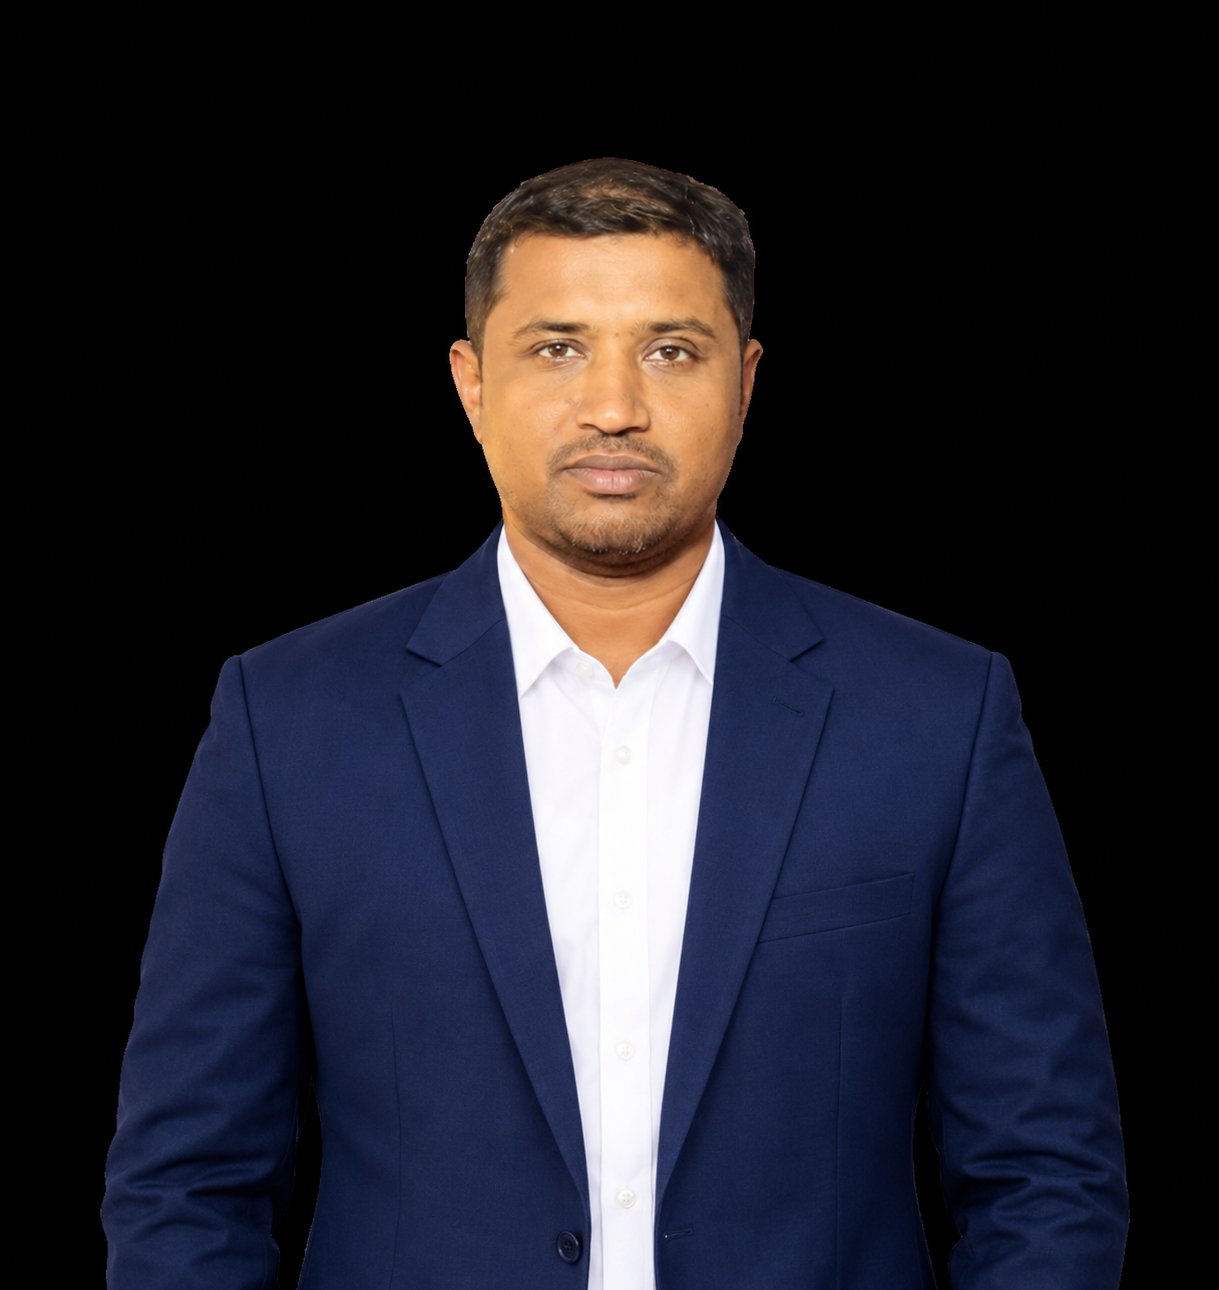
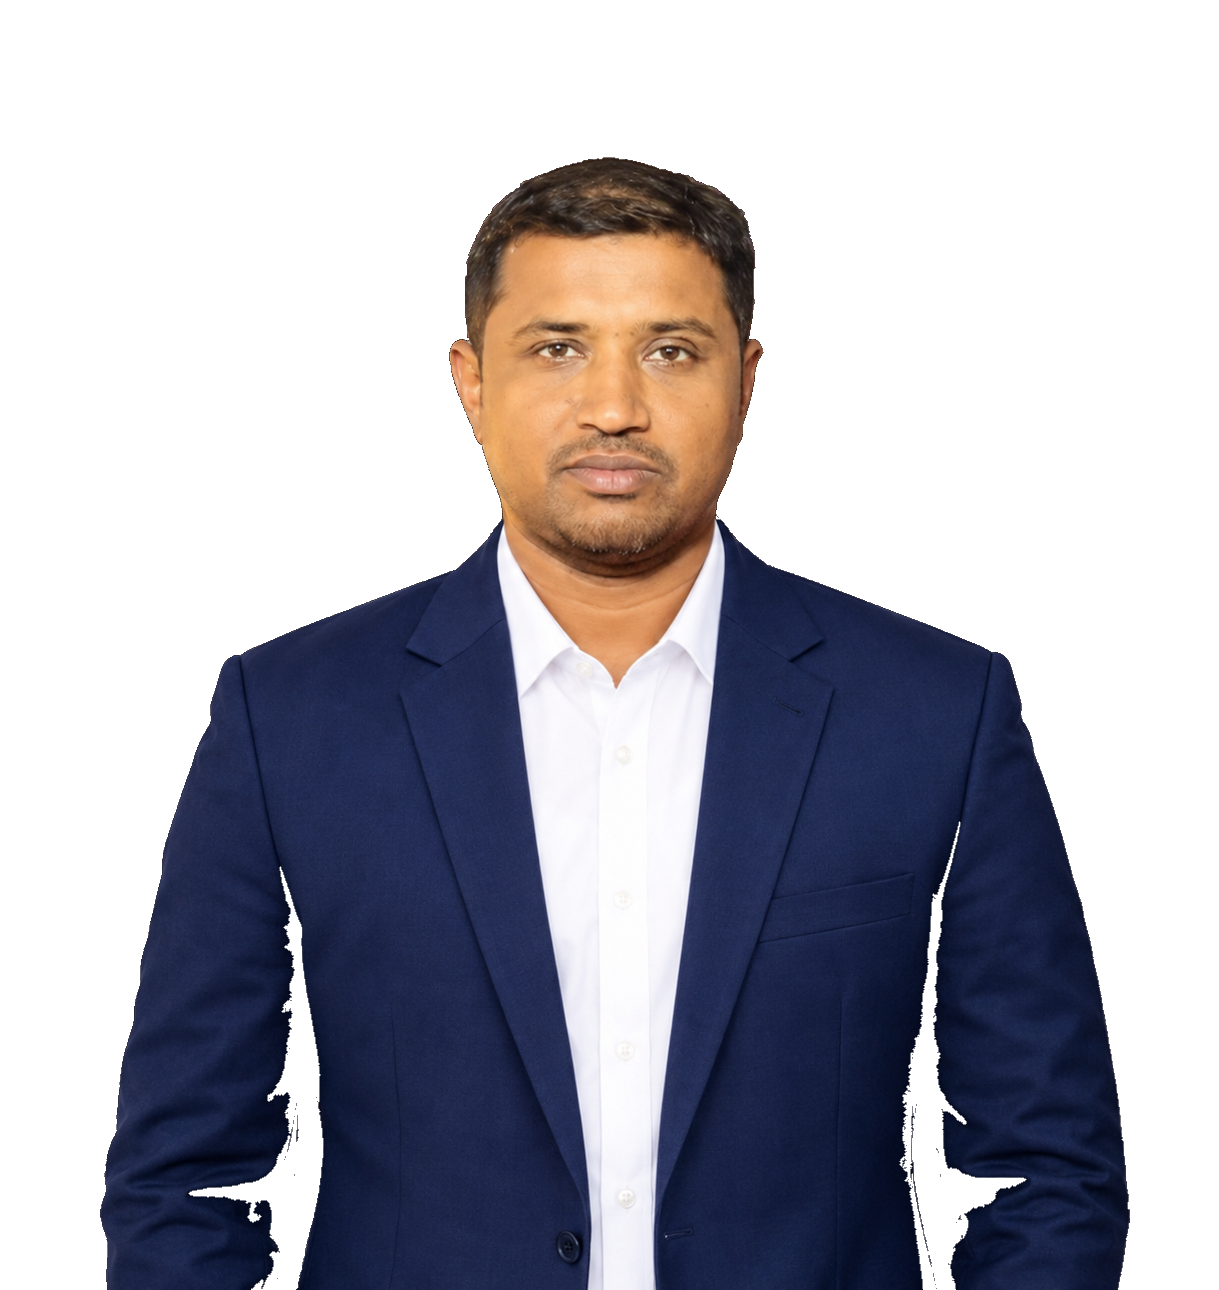
fix: bg made transpartet

diff --git a/src/components/home/PioneersSection.tsx b/src/components/home/PioneersSection.tsx
@@ -115,7 +115,7 @@ export default function PioneersSection({ locale }: { locale: Locale }) {
             <div className="relative shrink-0">
               <div
                 className="relative w-40 h-40 sm:w-48 sm:h-48 rounded-2xl overflow-hidden ring-4 ring-[#006a4e]/20 group-hover:ring-[#006a4e] group-hover:scale-105 transition-all duration-500 shadow-md pioneer-photo-frame"
-                style={{ backgroundColor: "var(--pioneer-photo-bg, #000000)" }}
+                style={{ backgroundColor: "var(--pioneer-photo-bg, #ffffff)" }}
               >
                 <Image
                   src={topLeader.image}
@@ -178,7 +178,7 @@ export default function PioneersSection({ locale }: { locale: Locale }) {
                 {/* Photo */}
                 <div
                   className="relative w-36 h-36 sm:w-40 sm:h-40 rounded-2xl overflow-hidden mb-4 ring-4 ring-[#006a4e]/20 group-hover:ring-[#006a4e] group-hover:scale-105 transition-all duration-500 shadow-md pioneer-photo-frame shrink-0"
-                  style={{ backgroundColor: "var(--pioneer-photo-bg, #000000)" }}
+                  style={{ backgroundColor: "var(--pioneer-photo-bg, #ffffff)" }}
                 >
                   <Image
                     src={leader.image}

diff --git a/src/app/globals.css b/src/app/globals.css
@@ -83,14 +83,14 @@
    ========================================================================== */
 :root {
   /* Change photo background here: 'black', 'white', '#006a4e', etc. */
-  --pioneer-photo-bg: #000000;
+  --pioneer-photo-bg: #ffffff;
 
   /* Change card background here: '#ffffff', '#0b1210', etc. */
   --pioneer-card-bg: #ffffff;
 }
 
 .pioneer-photo-frame {
-  background-color: var(--pioneer-photo-bg, #000000);
+  background-color: var(--pioneer-photo-bg, #ffffff);
 }
 
 .pioneer-card {
